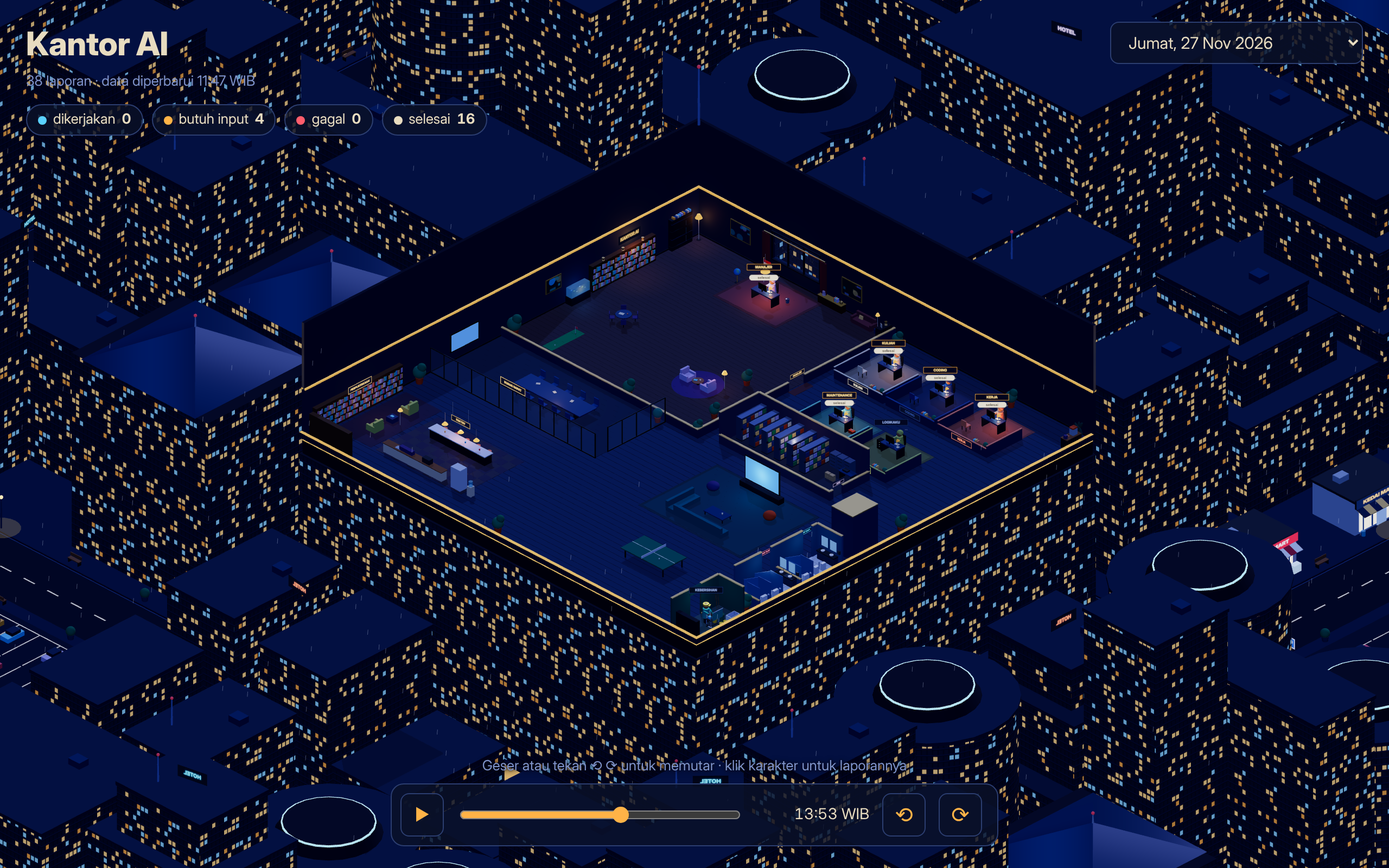
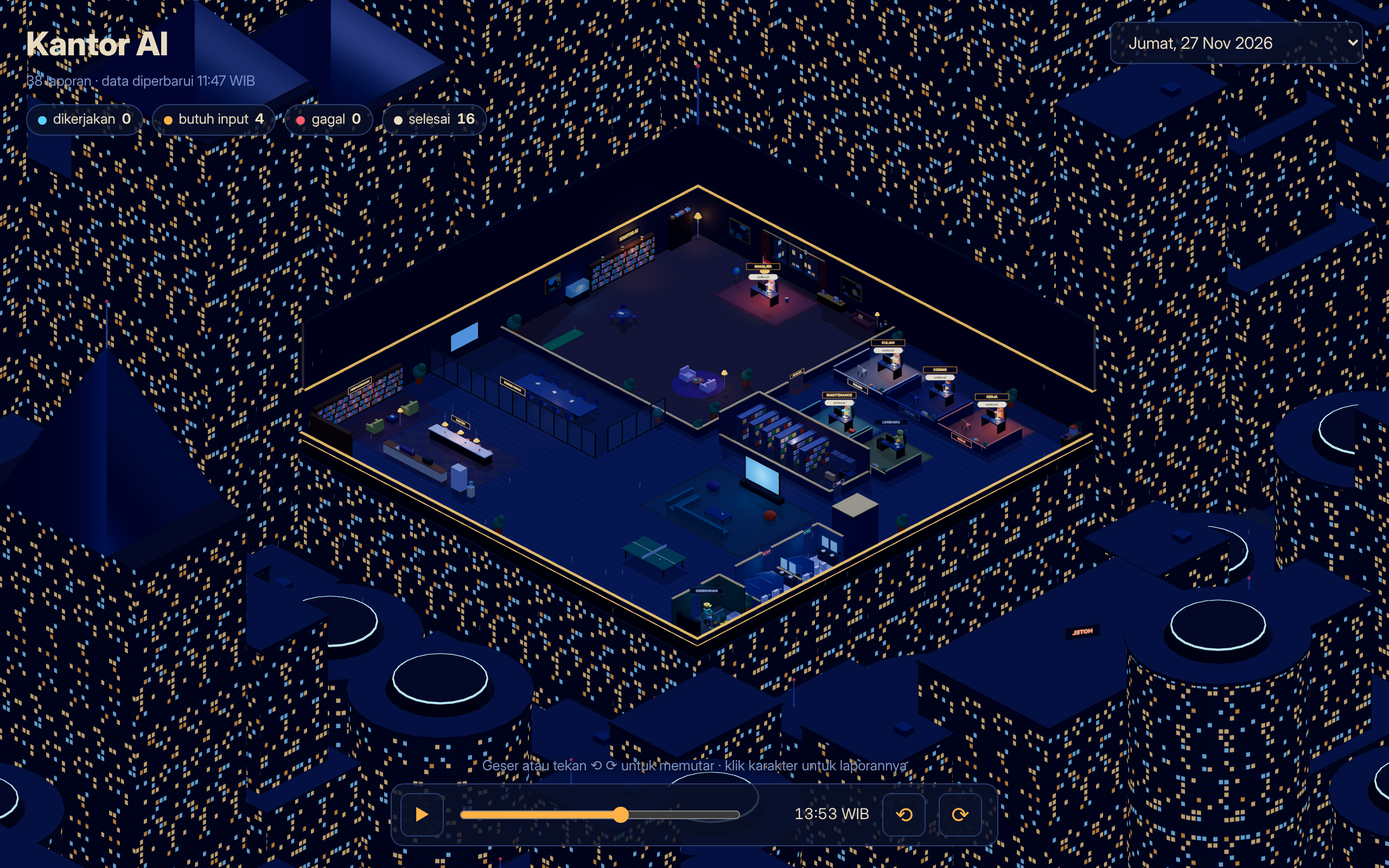
Kantor 3D: gedung kota setinggi semula, yang menghalangi kamera turun otomatis
Claude-Session: https://claude.ai/code/session_01TC1644zEPKkg35o3o8SKGe

diff --git a/kantor/app.js b/kantor/app.js
@@ -56,7 +56,7 @@ renderer.toneMapping = THREE.ACESFilmicToneMapping;
 renderer.toneMappingExposure = 1.15;
 
 const scene = new THREE.Scene();
-scene.fog = new THREE.Fog(0x0e1736, 230, 520); // gedung jauh dan bagian bawah kota memudar
+scene.fog = new THREE.Fog(0x0e1736, 550, 840); // gedung jauh dan bagian bawah kota memudar
 const kamera = new THREE.OrthographicCamera(-1, 1, 1, -1, 0.1, 1400);
 const kontrol = new OrbitControls(kamera, kanvas);
 kontrol.enablePan = false;
@@ -300,11 +300,48 @@ function bangunKota(lebar, dalam, dinding, r) {
   // ---- gedung di setiap blok, dengan bentuk berbeda-beda
   const BENTUK = ['kotak', 'bertingkat', 'silinder', 'kembar', 'runcing', 'L', 'bertingkat', 'silinder'];
   let nomor = 0;
-  /** Tinggi puncak maksimum supaya tidak menutupi ruangan dari sudut kamera mana pun. */
-  const maksPuncak = (x, z, w, d) => {
-    const dx = Math.max(0, Math.abs(x) - w / 2), dz = Math.max(0, Math.abs(z) - d / 2);
-    return 0.5 * (Math.hypot(dx, dz) - Math.hypot(lebar, dalam) / 2) - 1;
-  };
+  const gedungKota = [];
+  /**
+   * Gedung yang berada di antara kamera dan ruangan diturunkan (tenggelam ke bawah aspal)
+   * sampai puncaknya tidak menutupi lantai kantor; gedung lain tetap setinggi penuh.
+   */
+  /** Koordinat u terbesar (paling dekat kamera) dari lantai ruangan pada garis pandang bergeser t. */
+  function tepiDekat(t, ux, uz, px, pz) {
+    let hi = Infinity;
+    for (const [a, c, R] of [[ux, t * px, RX + 0.5], [uz, t * pz, RZ + 0.5]]) {
+      if (Math.abs(a) < 1e-6) continue;
+      hi = Math.min(hi, Math.max((R - c) / a, (-R - c) / a));
+    }
+    return hi;
+  }
+  const arahLalu = new THREE.Vector3(1e9, 0, 0);
+  let pertama = true;
+  function turunkanGedung(dt) {
+    const v = kamera.position.clone().sub(kontrol.target);
+    const datar = Math.hypot(v.x, v.z), ux = v.x / datar, uz = v.z / datar, tanE = v.y / datar;
+    const berubah = arahLalu.distanceToSquared(v.set(ux, tanE, uz)) > 1e-8; arahLalu.copy(v);
+    const px = -uz, pz = ux, ru = Math.abs(ux) * RX + Math.abs(uz) * RZ, rp = Math.abs(px) * RX + Math.abs(pz) * RZ;
+    const lantai = -TANAH, a = pertama ? 1 : Math.min(1, dt * 7); pertama = false;
+    for (const b of gedungKota) {
+      if (berubah || b.g.userData.gerak) {
+        let batas = b.h;
+        const bp = b.x * px + b.z * pz, ep = Math.abs(px) * b.w / 2 + Math.abs(pz) * b.d / 2;
+        const bu = b.x * ux + b.z * uz;
+        const t0 = Math.max(-rp, bp - ep - 1.5), t1 = Math.min(rp, bp + ep + 1.5);
+        if (t0 < t1 && bu > 0) { // segaris dengan ruangan dilihat dari kamera, dan di sisi kamera
+          // tepi ruangan terdekat ke kamera pada rentang yang tertutup gedung ini
+          let tepi = -Infinity;
+          for (let k = 0; k <= 8; k++) tepi = Math.max(tepi, tepiDekat(t0 + (t1 - t0) * k / 8, ux, uz, px, pz));
+          const s = Math.max(0, bu - (Math.abs(ux) * b.w / 2 + Math.abs(uz) * b.d / 2) - tepi);
+          batas = Math.max(3, lantai + tanE * s - 2);
+        }
+        b.target = Math.min(0, batas - b.h);
+      }
+      const y = b.g.position.y, t = b.target ?? 0;
+      b.g.position.y = Math.abs(t - y) < 0.05 ? t : y + (t - y) * a;
+      b.g.userData.gerak = b.g.position.y !== t;
+    }
+  }
   const kotakGedung = (w, h, d, x, y0, z, i) => {
     const m = new THREE.Mesh(new THREE.BoxGeometry(w, h, d), [
       matFasad(i, d, h), matFasad(i, d, h), mAtap, mAtap, matFasad(i + 1, w, h), matFasad(i + 1, w, h),
@@ -323,11 +360,11 @@ function bangunKota(lebar, dalam, dinding, r) {
   function gedung(x, z, w, d) {
     const i = nomor++;
     const bentuk = BENTUK[Math.floor(r() * BENTUK.length)];
-    const jauh = Math.max(Math.abs(x), Math.abs(z)) > 2.5 * P;
-    const ingin = TANAH + (jauh ? 40 + r() * 40 : 14 + r() * 26); // gedung tinggi, dibatasi maksPuncak di dekat menara
-    const puncak = Math.min(ingin, maksPuncak(x, z, w, d));
+    const jauh = Math.max(Math.abs(x), Math.abs(z)) > 1.5 * P;
+    // tinggi penuh; gedung yang menghalangi ruangan dari arah kamera diturunkan tiap frame (lihat turunkanGedung)
+    const puncak = TANAH + (jauh ? 55 + r() * 60 : 38 + r() * 40);
     let h = puncak - TANAH;
-    if (h < 5) return;
+    const awal = scene.children.length;
     if (bentuk === 'kotak') {
       kotakGedung(w, h, d, x, TANAH, z, i); atap(w, d, x, puncak, z, i);
     } else if (bentuk === 'bertingkat') {
@@ -373,6 +410,10 @@ function bangunKota(lebar, dalam, dinding, r) {
       const pp = new THREE.Mesh(new THREE.PlaneGeometry(3.2, 1.2), new THREE.MeshBasicMaterial({ map: tx, side: THREE.DoubleSide }));
       pp.position.set(x, puncak + 1.4, z); pp.lookAt(0, puncak + 1.4, 0); scene.add(pp);
     }
+    // kumpulkan semua bagian gedung ini dalam satu grup, supaya bisa diturunkan utuh ke bawah aspal
+    const g = new THREE.Group(); scene.add(g);
+    for (const o of scene.children.splice(awal, scene.children.length - awal - 1)) { o.parent = null; g.add(o); }
+    gedungKota.push({ g, x, z, w, d, h });
   }
   // ---- minimarket dan papan reklame
   const TOKO = [
@@ -540,6 +581,7 @@ function bangunKota(lebar, dalam, dinding, r) {
 
   let waktuLalin = 0;
   return (dt) => {
+    turunkanGedung(dt);
     waktuLalin += dt; aturFase(waktuLalin);
     for (const g of mobil) {
       const u = g.userData;
@@ -1869,7 +1911,7 @@ async function mulai() {
     if (k.id === PETUGAS) keadaan.meja[k.id] = bangunPetugas(k, posisi[k.id], i);
   });
 
-  kamera.position.set(66, 57, 66); // jauh, supaya gedung di sekitar tidak terpotong bidang dekat kamera
+  kamera.position.set(264, 228, 264); // sangat jauh, supaya gedung tinggi di sekitar tidak terpotong bidang dekat kamera
   kontrol.target.set(0, 0.6, 0.4);
   kontrol.update();
   ukurUlang();
